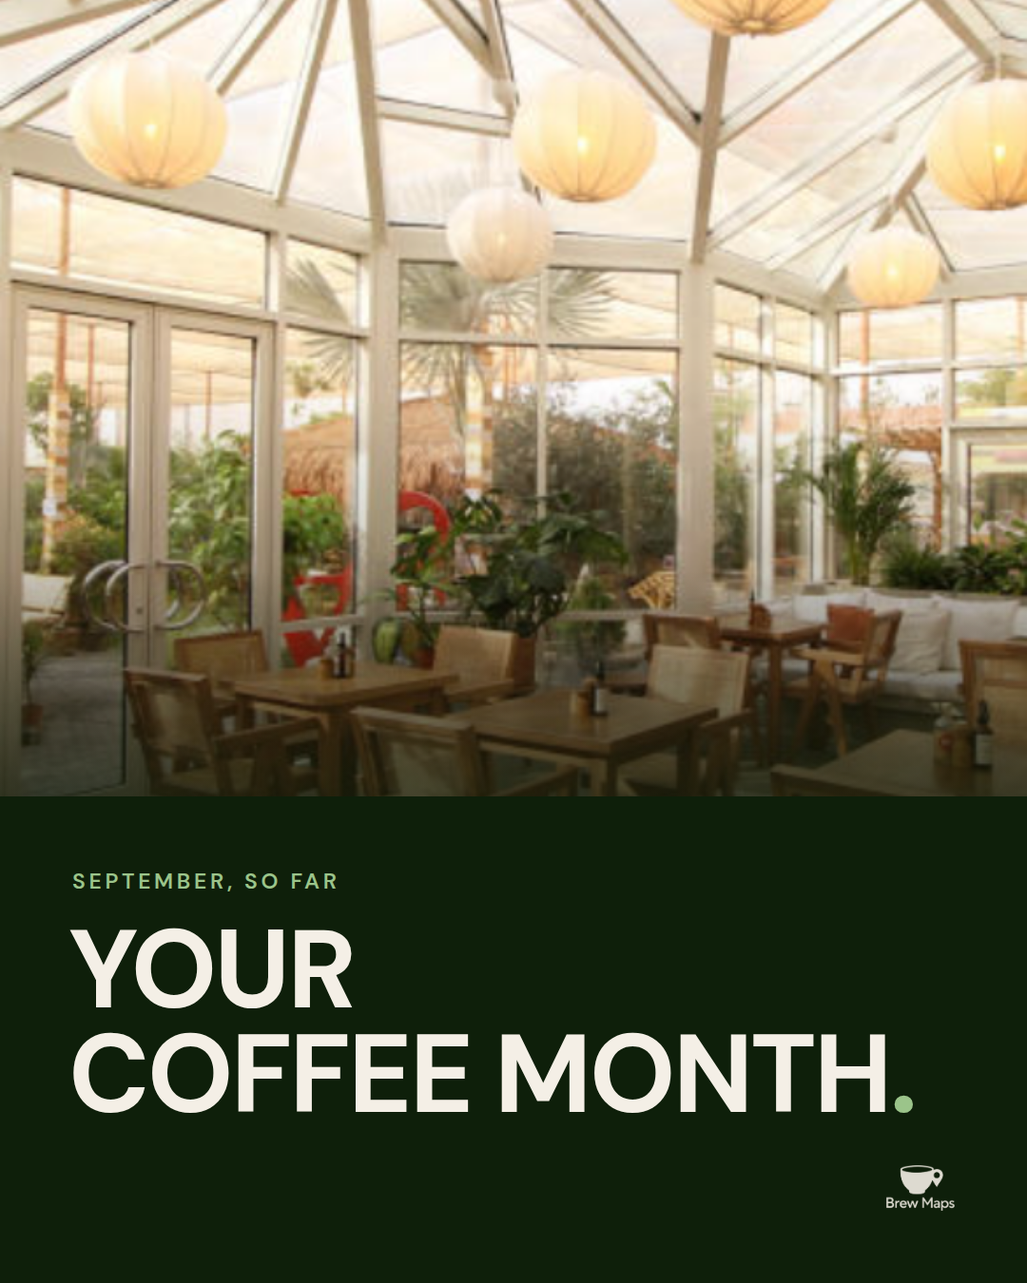
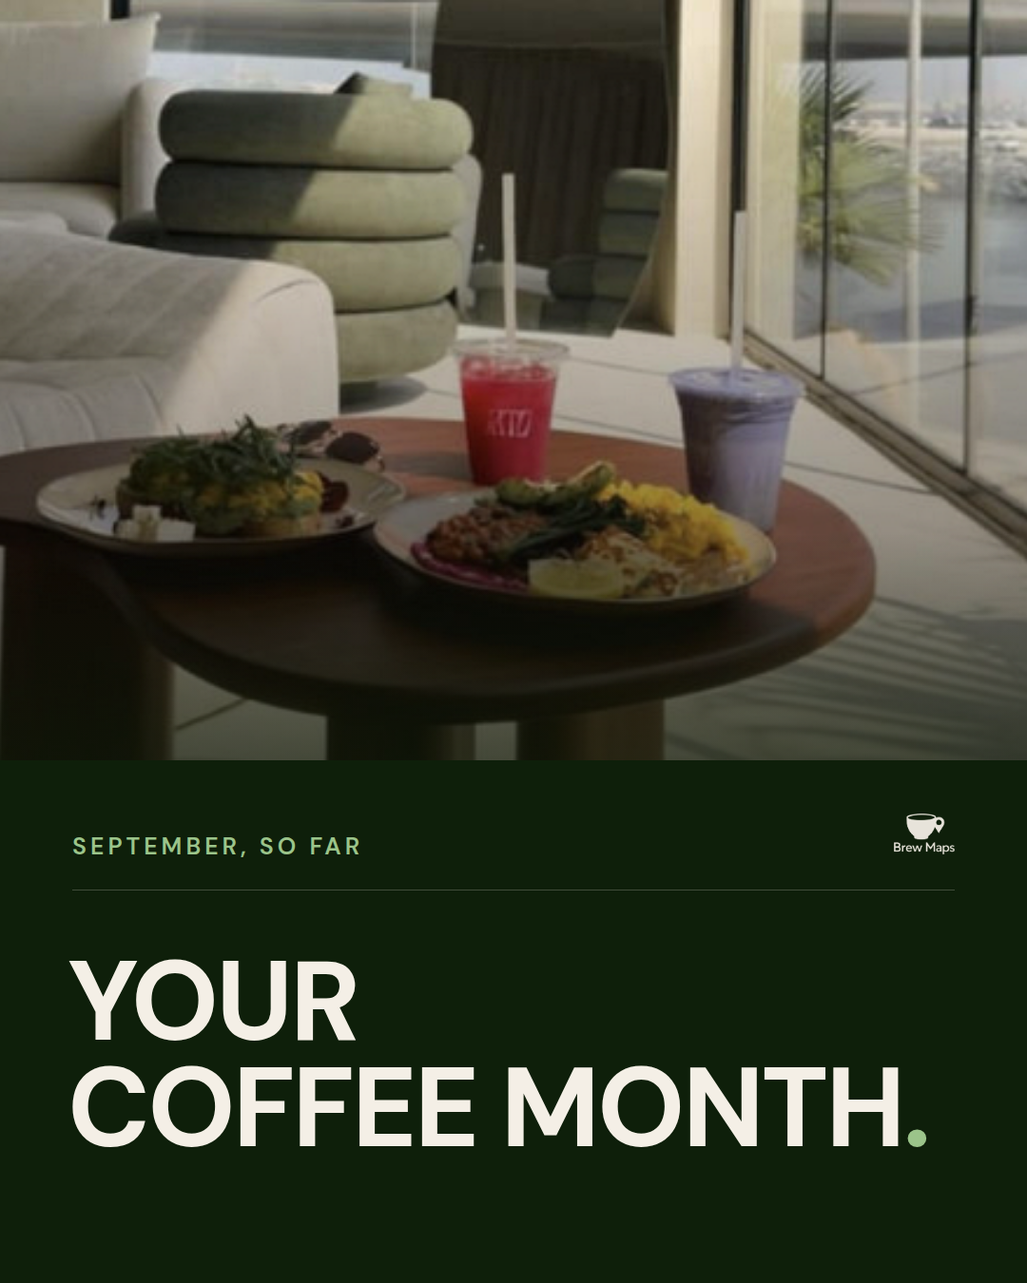
Refine Coffee Month carousel into the BrewMaps Monthly format
Reorders to emotion, reward, detail, CTA. Cover crops to a coffee
moment with a masthead kicker; the BrewPoints number now spans the
canvas edge to edge; the stats slide is rebuilt as asymmetric
data-as-design on warm sand with complete check-in tiles; the share
slide tightens headline, CTA and a larger calendar into one block.

Uses the app's own 'cups posted' wording on the stats slide.

Claude-Session: https://claude.ai/code/session_01UCKVHF8Bj15Neb29ir5cAN

diff --git a/marketing/instagram/2026-09-coffee-month/source/wrap-4.html b/marketing/instagram/2026-09-coffee-month/source/wrap-4.html
@@ -1,13 +1,14 @@
 <link rel="stylesheet" href="base.css"><style>body{background:var(--deep);color:var(--cream);}</style>
-<h1 class="h abs" style="left:72px;top:104px;font-size:82px;">What will your<br>month look like<span style="color:var(--mint)">?</span></h1>
-<div class="abs" style="left:76px;top:306px;font-size:29px;font-weight:500;line-height:1.42;color:rgba(244,239,230,.7);">Screenshot yours on the 30th.<br>Tag <b style="color:var(--cream);font-weight:700;">@BrewMaps</b></div>
-<div class="abs" style="left:100px;top:522px;">
- <div class="serif" style="font-size:38px;font-style:italic;margin-bottom:20px;">September</div>
+<h1 class="h abs" style="left:71px;top:88px;font-size:78px;">What will your<br>month look like<span style="color:var(--mint)">?</span></h1>
+<div class="abs" style="left:76px;top:268px;font-size:40px;font-weight:700;color:var(--cream);">Start building yours.</div>
+<div class="abs" style="left:76px;top:326px;font-size:27px;font-weight:500;color:rgba(244,239,230,.6);">Check in when you grab a coffee.</div>
+<div class="abs" style="left:44px;top:432px;">
+ <div class="serif" style="font-size:36px;font-style:italic;margin-left:6px;margin-bottom:16px;">September</div>
  
 <style>
-.calw{--tile:126px;--gap:8px;}
+.calw{--tile:136px;--gap:8px;}
 .cal{display:grid;grid-template-columns:repeat(7,var(--tile));gap:var(--gap);}
-.cal .t{width:var(--tile);height:calc(var(--tile)*0.72);border-radius:16px;display:flex;align-items:flex-end;justify-content:center;padding-bottom:calc(var(--tile)*0.12);box-sizing:border-box;font-family:"DM Sans";font-weight:600;font-size:calc(var(--tile)*0.26);overflow:hidden;position:relative;}
+.cal .t{width:var(--tile);height:calc(var(--tile)*0.72);border-radius:17px;display:flex;align-items:flex-end;justify-content:center;padding-bottom:calc(var(--tile)*0.12);box-sizing:border-box;font-family:"DM Sans";font-weight:600;font-size:calc(var(--tile)*0.26);overflow:hidden;position:relative;}
 .cal .t.p{padding:0;display:block;}
 .cal .t.p img{width:100%;height:100%;object-fit:cover;display:block;}
 .wd{display:grid;grid-template-columns:repeat(7,var(--tile));gap:var(--gap);font-family:"DM Sans";font-weight:600;font-size:calc(var(--tile)*0.16);letter-spacing:0.06em;text-align:center;margin-bottom:calc(var(--gap)*1.5);}
@@ -19,8 +20,9 @@
 .wd{color:rgba(244,239,230,0.45);}
 </style><div class="calw"><div class="wd"><span>M</span><span>T</span><span>W</span><span>T</span><span>F</span><span>S</span><span>S</span></div><div class="cal"><div class="t e"></div><div class="t c"><span>1</span></div><div class="t p"><img src="src/cell-sep-2.png"></div><div class="t x"><span>3</span></div><div class="t c"><span>4</span></div><div class="t c"><span>5</span></div><div class="t p"><img src="src/cell-sep-6.png"></div><div class="t c"><span>7</span></div><div class="t c"><span>8</span></div><div class="t p"><img src="src/cell-sep-9.png"></div><div class="t p"><img src="src/cell-sep-10.png"></div><div class="t p"><img src="src/cell-sep-11.png"></div><div class="t p"><img src="src/cell-sep-12.png"></div><div class="t f"><span>13</span></div><div class="t f"><span>14</span></div><div class="t f"><span>15</span></div><div class="t f"><span>16</span></div><div class="t f"><span>17</span></div><div class="t f"><span>18</span></div><div class="t f"><span>19</span></div><div class="t f"><span>20</span></div><div class="t f"><span>21</span></div><div class="t f"><span>22</span></div><div class="t f"><span>23</span></div><div class="t f"><span>24</span></div><div class="t f"><span>25</span></div><div class="t f"><span>26</span></div><div class="t f"><span>27</span></div><div class="t f"><span>28</span></div><div class="t f"><span>29</span></div><div class="t f"><span>30</span></div></div></div>
 </div>
-<div class="abs" style="left:76px;top:486px;width:50px;height:50px;border-left:3px solid rgba(244,239,230,.7);border-top:3px solid rgba(244,239,230,.7);"></div>
-<div class="abs" style="right:76px;top:486px;width:50px;height:50px;border-right:3px solid rgba(244,239,230,.7);border-top:3px solid rgba(244,239,230,.7);"></div>
-<div class="abs" style="left:76px;bottom:196px;width:50px;height:50px;border-left:3px solid rgba(244,239,230,.7);border-bottom:3px solid rgba(244,239,230,.7);"></div>
-<div class="abs" style="right:76px;bottom:196px;width:50px;height:50px;border-right:3px solid rgba(244,239,230,.7);border-bottom:3px solid rgba(244,239,230,.7);"></div>
-<img class="abs" src="src/logo-cream.png" style="right:76px;bottom:76px;width:72px;opacity:.9;">
+<div class="abs" style="left:36px;top:412px;width:46px;height:46px;border-left:3px solid rgba(244,239,230,.65);border-top:3px solid rgba(244,239,230,.65);"></div>
+<div class="abs" style="right:36px;top:412px;width:46px;height:46px;border-right:3px solid rgba(244,239,230,.65);border-top:3px solid rgba(244,239,230,.65);"></div>
+<div class="abs" style="left:36px;top:1122px;width:46px;height:46px;border-left:3px solid rgba(244,239,230,.65);border-bottom:3px solid rgba(244,239,230,.65);"></div>
+<div class="abs" style="right:36px;top:1122px;width:46px;height:46px;border-right:3px solid rgba(244,239,230,.65);border-bottom:3px solid rgba(244,239,230,.65);"></div>
+<div class="abs" style="left:76px;top:1232px;font-size:25px;font-weight:500;color:rgba(244,239,230,.6);line-height:1.35;">Share yours at the end of September.<br>Tag <b style="color:var(--cream);font-weight:700;">@BrewMaps</b></div>
+<img class="abs" src="src/logo-cream.png" style="right:76px;bottom:76px;width:64px;opacity:.95;">

diff --git a/marketing/instagram/2026-09-coffee-month/source/wrap-2.html b/marketing/instagram/2026-09-coffee-month/source/wrap-2.html
@@ -1,14 +1,6 @@
-<link rel="stylesheet" href="base.css"><style>body{background:var(--sand);color:var(--green);}</style>
-<div class="ph" style="left:648px;top:0px;width:432px;height:1350px;"><img src="src/cafe-jumeirah.png"></div>
-<div class="abs kick" style="left:76px;top:94px;font-size:22px;opacity:.55;">September, so far</div>
-<div class="rule abs" style="left:76px;top:248px;width:496px;background:rgba(43,77,31,.22);"></div>
-<div class="abs num" style="left:70px;top:286px;font-size:214px;">6</div>
-<div class="abs kick" style="left:76px;top:494px;font-size:24px;opacity:.72;">cups</div>
-<div class="rule abs" style="left:76px;top:570px;width:496px;background:rgba(43,77,31,.22);"></div>
-<div class="abs num" style="left:70px;top:608px;font-size:214px;">20</div>
-<div class="abs kick" style="left:76px;top:816px;font-size:24px;opacity:.72;">cafés</div>
-<div class="rule abs" style="left:76px;top:892px;width:496px;background:rgba(43,77,31,.22);"></div>
-<div class="abs num" style="left:70px;top:930px;font-size:214px;">5</div>
-<div class="abs kick" style="left:76px;top:1138px;font-size:24px;opacity:.72;">coffee-free days</div>
-<div class="rule abs" style="left:76px;top:1214px;width:496px;background:rgba(43,77,31,.22);"></div>
-<img class="abs" src="src/logo-green.png" style="left:76px;bottom:76px;width:72px;opacity:.9;">
+<link rel="stylesheet" href="base.css"><style>body{background:var(--night);color:var(--cream);}</style>
+<div class="abs" style="left:-360px;top:-300px;width:1820px;height:1700px;border-radius:50%;background:radial-gradient(circle,rgba(155,196,138,.26) 0%,rgba(155,196,138,.07) 44%,rgba(14,31,10,0) 70%);"></div>
+<div class="abs kick" style="left:76px;top:210px;font-size:27px;color:var(--mint);">And you earned</div>
+<div class="abs num" style="left:0;top:308px;width:1080px;text-align:center;font-size:616px;">340</div>
+<h1 class="h abs" style="left:71px;top:872px;font-size:104px;">BrewPoints<span style="color:var(--mint)">.</span></h1>
+<div class="abs" style="left:76px;top:1042px;font-size:29px;font-weight:500;color:rgba(244,239,230,.62);">Earned through your BrewMaps check-ins.</div>

diff --git a/marketing/instagram/2026-09-coffee-month/source/wrap-3.html b/marketing/instagram/2026-09-coffee-month/source/wrap-3.html
@@ -1,8 +1,10 @@
-<link rel="stylesheet" href="base.css"><style>body{background:var(--night);color:var(--cream);}</style>
-<div class="abs" style="left:-340px;top:-400px;width:1780px;height:1700px;border-radius:50%;background:radial-gradient(circle,rgba(155,196,138,.26) 0%,rgba(155,196,138,.07) 44%,rgba(14,31,10,0) 70%);"></div>
-<div class="abs kick" style="left:76px;top:268px;font-size:27px;color:var(--mint);">And you earned</div>
-<div class="abs num" style="left:34px;top:364px;font-size:528px;">340</div>
-<h1 class="h abs" style="left:72px;top:846px;font-size:94px;">BrewPoints<span style="color:var(--mint)">.</span></h1>
-<div class="rule abs" style="left:76px;top:1004px;width:928px;background:rgba(244,239,230,.2);"></div>
-<div class="abs" style="left:76px;top:1042px;font-size:27px;font-weight:500;color:rgba(244,239,230,.6);">6 check-ins · 20 cafés · every cup counts.</div>
-<img class="abs" src="src/logo-cream.png" style="right:76px;bottom:76px;width:72px;opacity:.9;">
+<link rel="stylesheet" href="base.css"><style>body{background:var(--sand);color:var(--green);}</style>
+<div class="abs num" style="left:66px;top:96px;font-size:312px;">6</div>
+<div class="ph" style="left:604px;top:132px;width:400px;height:286px;"><img src="src/photo-9.png" style="object-position:center;"></div>
+<div class="abs kick" style="left:76px;top:404px;font-size:26px;opacity:.8;">cups posted</div>
+<div class="ph" style="left:76px;top:556px;width:330px;height:236px;"><img src="src/photo-2.png" style="object-position:center;"></div>
+<div class="abs num" style="left:436px;top:472px;font-size:436px;">20</div>
+<div class="abs kick" style="left:442px;top:876px;font-size:26px;opacity:.8;">caf&eacute;s</div>
+<div class="abs num" style="left:66px;top:922px;font-size:340px;">5</div>
+<div class="abs kick" style="left:284px;top:1118px;font-size:26px;opacity:.8;line-height:1.3;">coffee-free<br>days</div>
+<div class="ph" style="left:604px;top:984px;width:400px;height:286px;"><img src="src/photo-12.png" style="object-position:center;"></div>

diff --git a/marketing/instagram/2026-09-coffee-month/source/wrap-1.html b/marketing/instagram/2026-09-coffee-month/source/wrap-1.html
@@ -1,6 +1,7 @@
 <link rel="stylesheet" href="base.css"><style>body{background:var(--night);color:var(--cream);}</style>
-<div class="ph" style="left:0px;top:0px;width:1080px;height:838px;"><img src="src/cafe-alquoz.png"></div>
-<div class="abs" style="left:0;top:600px;width:1080px;height:238px;background:linear-gradient(to bottom,rgba(14,31,10,0),rgba(14,31,10,.55));"></div>
-<div class="abs kick" style="left:76px;top:912px;font-size:23px;color:var(--mint);">September, so far</div>
-<h1 class="h abs" style="left:72px;top:966px;font-size:116px;">Your<br>coffee month<span style="color:var(--mint)">.</span></h1>
-<img class="abs" src="src/logo-cream.png" style="right:76px;bottom:76px;width:72px;opacity:.9;">
+<div class="ph" style="left:0px;top:0px;width:1080px;height:800px;"><img src="src/hero-a.png" style="object-position:center 62%;"></div>
+<div class="abs" style="left:0;top:560px;width:1080px;height:240px;background:linear-gradient(to bottom,rgba(14,31,10,0),rgba(14,31,10,.45));"></div>
+<div class="abs kick" style="left:76px;top:874px;font-size:25px;color:var(--mint);">September, so far</div>
+<img class="abs" src="src/logo-cream.png" style="right:76px;top:856px;width:64px;opacity:.95;">
+<div class="rule abs" style="left:76px;top:936px;width:928px;background:rgba(244,239,230,.22);"></div>
+<h1 class="h abs" style="left:71px;top:998px;font-size:118px;">Your<br>coffee month<span style="color:var(--mint)">.</span></h1>

diff --git a/marketing/instagram/2026-09-coffee-month/source/build_final.py b/marketing/instagram/2026-09-coffee-month/source/build_final.py
@@ -1,58 +1,55 @@
 from data import *
 from cal import calendar
 H='<link rel="stylesheet" href="base.css">'
-M=76  # single margin, every slide
-LC=f'<img class="abs" src="src/logo-cream.png" style="right:{M}px;bottom:{M}px;width:72px;opacity:.9;">'
-LG=f'<img class="abs" src="src/logo-green.png" style="right:{M}px;bottom:{M}px;width:72px;opacity:.9;">'
-def ph(x,y,w,h,name):
-    return f'<div class="ph" style="left:{x}px;top:{y}px;width:{w}px;height:{h}px;"><img src="src/cafe-{name}.png"></div>'
+M=76
+def ph(x,y,w,h,name,pos='center'):
+    return (f'<div class="ph" style="left:{x}px;top:{y}px;width:{w}px;height:{h}px;">'
+            f'<img src="src/{name}.png" style="object-position:{pos};"></div>')
 
-# 1 HOOK — one full-bleed photograph, one hard horizontal edge, type below it
+# ── 1  COVER — coffee moment above, dark green below, masthead kicker + logo
 S1=f'''{H}<style>body{{background:var(--night);color:var(--cream);}}</style>
-{ph(0,0,1080,838,'alquoz')}
-<div class="abs" style="left:0;top:600px;width:1080px;height:238px;background:linear-gradient(to bottom,rgba(14,31,10,0),rgba(14,31,10,.55));"></div>
-<div class="abs kick" style="left:{M}px;top:912px;font-size:23px;color:var(--mint);">{MONTH}, so far</div>
-<h1 class="h abs" style="left:{M-4}px;top:966px;font-size:116px;">Your<br>coffee month<span style="color:var(--mint)">.</span></h1>
-{LC}'''
+{ph(0,0,1080,800,'hero-a','center 62%')}
+<div class="abs" style="left:0;top:560px;width:1080px;height:240px;background:linear-gradient(to bottom,rgba(14,31,10,0),rgba(14,31,10,.45));"></div>
+<div class="abs kick" style="left:{M}px;top:874px;font-size:25px;color:var(--mint);">{MONTH}, so far</div>
+<img class="abs" src="src/logo-cream.png" style="right:{M}px;top:856px;width:64px;opacity:.95;">
+<div class="rule abs" style="left:{M}px;top:936px;width:{1080-2*M}px;background:rgba(244,239,230,.22);"></div>
+<h1 class="h abs" style="left:{M-5}px;top:998px;font-size:118px;">Your<br>coffee month<span style="color:var(--mint)">.</span></h1>'''
 
-# 2 STATS — cream, one strict column of rules, one full-height photo column
-S2=f'''{H}<style>body{{background:var(--sand);color:var(--green);}}</style>
-{ph(648,0,432,1350,'jumeirah')}
-<div class="abs kick" style="left:{M}px;top:{M+18}px;font-size:22px;opacity:.55;">{MONTH}, so far</div>
-<div class="rule abs" style="left:{M}px;top:248px;width:496px;background:rgba(43,77,31,.22);"></div>
-<div class="abs num" style="left:{M-6}px;top:286px;font-size:214px;">{CUPS}</div>
-<div class="abs kick" style="left:{M}px;top:494px;font-size:24px;opacity:.72;">cups</div>
-<div class="rule abs" style="left:{M}px;top:570px;width:496px;background:rgba(43,77,31,.22);"></div>
-<div class="abs num" style="left:{M-6}px;top:608px;font-size:214px;">{CAFES}</div>
-<div class="abs kick" style="left:{M}px;top:816px;font-size:24px;opacity:.72;">cafés</div>
-<div class="rule abs" style="left:{M}px;top:892px;width:496px;background:rgba(43,77,31,.22);"></div>
-<div class="abs num" style="left:{M-6}px;top:930px;font-size:214px;">{FREE_DAYS}</div>
-<div class="abs kick" style="left:{M}px;top:1138px;font-size:24px;opacity:.72;">coffee-free days</div>
-<div class="rule abs" style="left:{M}px;top:1214px;width:496px;background:rgba(43,77,31,.22);"></div>
-<img class="abs" src="src/logo-green.png" style="left:{M}px;bottom:{M}px;width:72px;opacity:.9;">'''
+# ── 2  REWARD — the number owns the canvas
+S2=f'''{H}<style>body{{background:var(--night);color:var(--cream);}}</style>
+<div class="abs" style="left:-360px;top:-300px;width:1820px;height:1700px;border-radius:50%;background:radial-gradient(circle,rgba(155,196,138,.26) 0%,rgba(155,196,138,.07) 44%,rgba(14,31,10,0) 70%);"></div>
+<div class="abs kick" style="left:{M}px;top:210px;font-size:27px;color:var(--mint);">And you earned</div>
+<div class="abs num" style="left:0;top:308px;width:1080px;text-align:center;font-size:616px;">{POINTS_PLACEHOLDER}</div>
+<h1 class="h abs" style="left:{M-5}px;top:872px;font-size:104px;">BrewPoints<span style="color:var(--mint)">.</span></h1>
+<div class="abs" style="left:{M}px;top:1042px;font-size:29px;font-weight:500;color:rgba(244,239,230,.62);">Earned through your BrewMaps check-ins.</div>'''
 
-# 3 REWARD — pure typography, the largest element in the carousel
-S3=f'''{H}<style>body{{background:var(--night);color:var(--cream);}}</style>
-<div class="abs" style="left:-340px;top:-400px;width:1780px;height:1700px;border-radius:50%;background:radial-gradient(circle,rgba(155,196,138,.26) 0%,rgba(155,196,138,.07) 44%,rgba(14,31,10,0) 70%);"></div>
-<div class="abs kick" style="left:{M}px;top:268px;font-size:27px;color:var(--mint);">And you earned</div>
-<div class="abs num" style="left:{M-42}px;top:364px;font-size:528px;">{POINTS_PLACEHOLDER}</div>
-<h1 class="h abs" style="left:{M-4}px;top:846px;font-size:94px;">BrewPoints<span style="color:var(--mint)">.</span></h1>
-<div class="rule abs" style="left:{M}px;top:1004px;width:{1080-2*M}px;background:rgba(244,239,230,.2);"></div>
-<div class="abs" style="left:{M}px;top:1042px;font-size:27px;font-weight:500;color:rgba(244,239,230,.6);">{CUPS} check-ins · {CAFES} cafés · every cup counts.</div>
-{LC}'''
+# ── 3  DATA AS DESIGN — cream, asymmetric, check-in photos bled to the edges
+S3=f'''{H}<style>body{{background:var(--sand);color:var(--green);}}</style>
+<div class="abs num" style="left:{M-10}px;top:96px;font-size:312px;">{CUPS}</div>
+{ph(604,132,400,286,'photo-9')}
+<div class="abs kick" style="left:{M}px;top:404px;font-size:26px;opacity:.8;">cups posted</div>
+{ph(M,556,330,236,'photo-2')}
+<div class="abs num" style="left:436px;top:472px;font-size:436px;">{CAFES}</div>
+<div class="abs kick" style="left:442px;top:876px;font-size:26px;opacity:.8;">caf&eacute;s</div>
+<div class="abs num" style="left:{M-10}px;top:922px;font-size:340px;">{FREE_DAYS}</div>
+<div class="abs kick" style="left:284px;top:1118px;font-size:26px;opacity:.8;line-height:1.3;">coffee-free<br>days</div>
+{ph(604,984,400,286,'photo-12')}'''
 
-# 4 SHARE — the real calendar at native tile size, strict margins
+# ── 4  SHARE — headline, CTA and calendar as one block
+TILE=136
 S4=f'''{H}<style>body{{background:var(--deep);color:var(--cream);}}</style>
-<h1 class="h abs" style="left:{M-4}px;top:104px;font-size:82px;">What will your<br>month look like<span style="color:var(--mint)">?</span></h1>
-<div class="abs" style="left:{M}px;top:306px;font-size:29px;font-weight:500;line-height:1.42;color:rgba(244,239,230,.7);">Screenshot yours on the 30th.<br>Tag <b style="color:var(--cream);font-weight:700;">@BrewMaps</b></div>
-<div class="abs" style="left:{M+24}px;top:522px;">
- <div class="serif" style="font-size:38px;font-style:italic;margin-bottom:20px;">{MONTH}</div>
- {calendar('dark',tile=126,gap=8,rows=5,radius=16)}
+<h1 class="h abs" style="left:{M-5}px;top:88px;font-size:78px;">What will your<br>month look like<span style="color:var(--mint)">?</span></h1>
+<div class="abs" style="left:{M}px;top:268px;font-size:40px;font-weight:700;color:var(--cream);">Start building yours.</div>
+<div class="abs" style="left:{M}px;top:326px;font-size:27px;font-weight:500;color:rgba(244,239,230,.6);">Check in when you grab a coffee.</div>
+<div class="abs" style="left:44px;top:432px;">
+ <div class="serif" style="font-size:36px;font-style:italic;margin-left:6px;margin-bottom:16px;">{MONTH}</div>
+ {calendar('dark',tile=TILE,gap=8,rows=5,radius=17)}
 </div>
-<div class="abs" style="left:{M}px;top:486px;width:50px;height:50px;border-left:3px solid rgba(244,239,230,.7);border-top:3px solid rgba(244,239,230,.7);"></div>
-<div class="abs" style="right:{M}px;top:486px;width:50px;height:50px;border-right:3px solid rgba(244,239,230,.7);border-top:3px solid rgba(244,239,230,.7);"></div>
-<div class="abs" style="left:{M}px;bottom:196px;width:50px;height:50px;border-left:3px solid rgba(244,239,230,.7);border-bottom:3px solid rgba(244,239,230,.7);"></div>
-<div class="abs" style="right:{M}px;bottom:196px;width:50px;height:50px;border-right:3px solid rgba(244,239,230,.7);border-bottom:3px solid rgba(244,239,230,.7);"></div>
-{LC}'''
+<div class="abs" style="left:36px;top:412px;width:46px;height:46px;border-left:3px solid rgba(244,239,230,.65);border-top:3px solid rgba(244,239,230,.65);"></div>
+<div class="abs" style="right:36px;top:412px;width:46px;height:46px;border-right:3px solid rgba(244,239,230,.65);border-top:3px solid rgba(244,239,230,.65);"></div>
+<div class="abs" style="left:36px;top:1122px;width:46px;height:46px;border-left:3px solid rgba(244,239,230,.65);border-bottom:3px solid rgba(244,239,230,.65);"></div>
+<div class="abs" style="right:36px;top:1122px;width:46px;height:46px;border-right:3px solid rgba(244,239,230,.65);border-bottom:3px solid rgba(244,239,230,.65);"></div>
+<div class="abs" style="left:{M}px;top:1232px;font-size:25px;font-weight:500;color:rgba(244,239,230,.6);line-height:1.35;">Share yours at the end of September.<br>Tag <b style="color:var(--cream);font-weight:700;">@BrewMaps</b></div>
+<img class="abs" src="src/logo-cream.png" style="right:{M}px;bottom:{M}px;width:64px;opacity:.95;">'''
 for n,c in [('wrap-1',S1),('wrap-2',S2),('wrap-3',S3),('wrap-4',S4)]:
     open(n+'.html','w').write(c)

diff --git a/marketing/instagram/2026-09-coffee-month/CAPTION.md b/marketing/instagram/2026-09-coffee-month/CAPTION.md
@@ -1,42 +1,49 @@
-# Your Coffee Month — 4-slide carousel
+# Your Coffee Month — BrewMaps Monthly, September 2026
 
-1080 × 1350. Post mid-month; run the recap again on the 30th with the finished calendar.
+Four slides, 1080 × 1350. A recurring monthly format: rebuild from a new Calendar screenshot each month.
+Order is deliberate — EMOTION → REWARD → DETAIL → CTA.
 
 ## ⚠ Before posting
 
-Slide 3 shows **340 BrewPoints**. That number is a PLACEHOLDER — no BrewPoints screen was supplied.
-Replace it with the real September figure in `source/data.py` (`POINTS_PLACEHOLDER`) and re-render.
-Everything else on every slide is real data read from the Calendar screenshots:
-6 cups, 20 cafés, 5 coffee-free days, and the six actual cup photos.
+**BrewPoints figure is a placeholder.** Slide 2 shows 340. No BrewPoints screen was supplied,
+so replace it in `source/data.py` (`POINTS_PLACEHOLDER`) and re-render.
+
+**Terminology check.** Slide 3 says CUPS POSTED, not CHECK-INS. The app's own calendar reads
+"6 cups posted · 20 cafés · 5 days you didn't", and the August day view lists separate entries
+marked "HAD COFFEE, DIDN'T POST" — so in your product a posted cup and a check-in are not the
+same count. Slide 2 still says check-ins, because that is how BrewPoints are actually earned.
+If 6 really is the check-in count, it is one word to change.
+
+## The visual system
+
+Forest green #1E3A14, night green #0E1F0A, warm sand #EAE1D1, cream #F4EFE6, pale green #9BC48A.
+DM Sans throughout; Playfair Display italic only for the month name. Pale-green full stop and
+question mark. Oversized numerals. Real café and check-in imagery only. One 76px margin.
+Logo appears on two slides of four, never as a watermark.
 
 ## Caption
 
 Your coffee month.
 
-6 cups. 20 cafés. 5 days you didn't. And 340 BrewPoints for the trouble.
+6 cups posted. 20 cafés. 5 days without one. And 340 BrewPoints for the trouble.
 
 Every check-in lands on your calendar and earns BrewPoints toward your next badge. At the end of the month you get a picture of how you actually drank coffee.
 
-Screenshot yours on the 30th, share it to your story and tag @BrewMaps. We'll repost our favourites.
+Start building yours — check in when you grab a coffee. Share yours at the end of September and tag @BrewMaps. We'll repost our favourites.
 
 Library → Calendar, in the BrewMaps app.
 
-#BrewMaps #YourCoffeeMonth #BrewPoints #SpecialtyCoffee #DubaiCoffee #UAECoffee #SharjahCoffee #CoffeeDaily #DubaiCafes
+#BrewMaps #YourCoffeeMonth #BrewPoints #SpecialtyCoffee #DubaiCoffee #UAECoffee #SharjahCoffee #DubaiCafes #CoffeeDaily
 
 ## Alt text
 
-Four slides. A collage of six coffee photos from a BrewMaps calendar under the headline "Your coffee month". Large numbers 6 cups, 20 cafés, 5 coffee-free days. "And you earned 340 BrewPoints." The September calendar inside screenshot marks with "What will your month look like?"
+Four slides. A café table with drinks above the headline "Your coffee month". A very large 340 over "BrewPoints". The numbers 6 cups posted, 20 cafés and 5 coffee-free days with check-in photos. The September calendar under "What will your month look like?"
 
 ## Slide roles
 
 | # | Role | Treatment |
 |---|---|---|
-| 1 | Hook | One full-bleed café photograph, hard horizontal edge, headline on solid green below |
-| 2 | Stats | Warm sand. Three numerals on hairline rules in one column, full-height photo column right |
-| 3 | Reward | Near-black with a soft mint field. Pure typography, the largest element in the carousel |
-| 4 | Share | Deep green, the real September calendar at native tile size inside screenshot marks |
-
-Photography comes from the Browse by Area cards at 585 × 770, not from the calendar cells, which are
-only 172 × 123 and go soft the moment they are enlarged. The cup photos appear only inside the
-calendar on slide 4, at or below their native size, where they stay sharp.
-Every element sits on a single 76px margin. No rotation anywhere.
+| 1 | Editorial cover | Cropped coffee moment above, dark green below. Kicker and logo form a masthead over a rule |
+| 2 | Reward impact | Night green. 340 spans the full canvas edge to edge. Nothing else competes |
+| 3 | Data as design | Warm sand. Three numerals at three scales, asymmetric, complete check-in tiles on a locked grid |
+| 4 | Share and action | Deep green. Headline, CTA and calendar read as one block inside screenshot marks |
